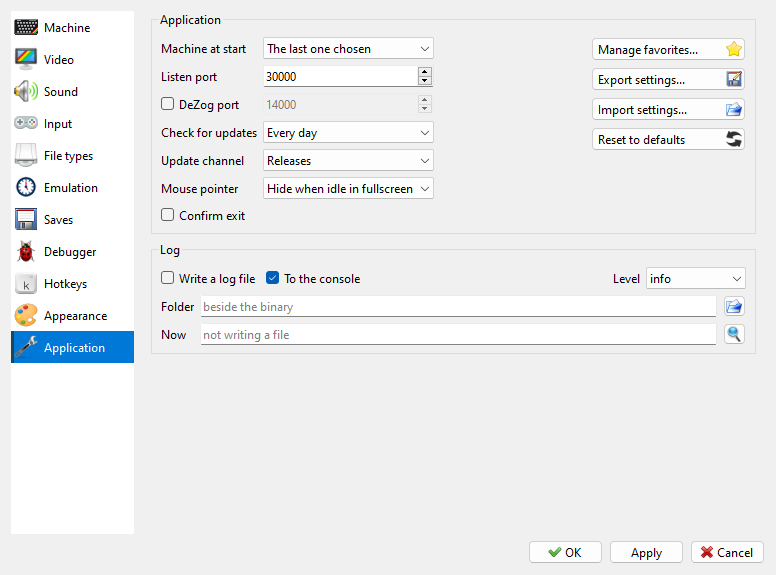
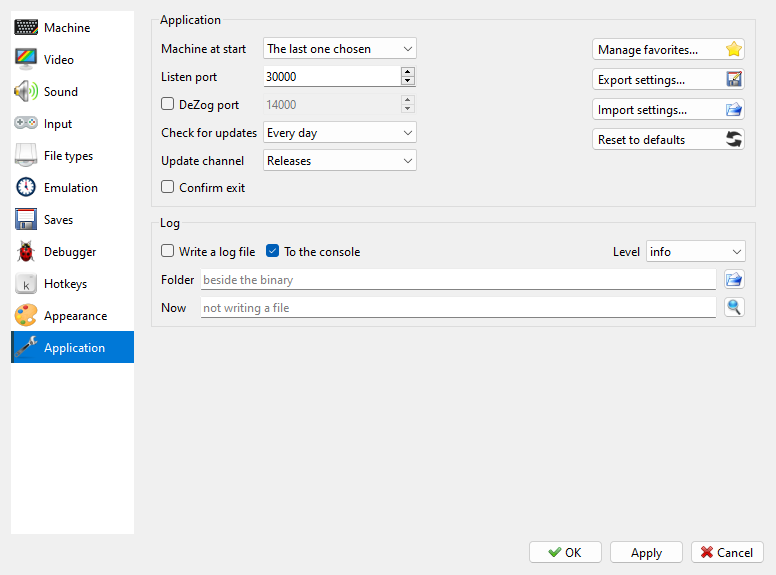
manual: Auto-Hide Pointer in View, out of the Application page and its picture

diff --git a/docs/manual/view.md b/docs/manual/view.md
@@ -6,8 +6,8 @@
 How big the picture is, how much border it shows, and how it is drawn: the colors, a
 shader, anti-flicker. The quick switches are in the **View** menu; all the settings are on
 the **Video** page of **Options** (see [Video page](options-video.md)). The menu also keeps
-the window over the others, and shows and hides the menu bar, the toolbar, the status bar,
-the virtual keyboard and the input overlay.
+the window over the others, hides a still pointer, and shows and hides the menu bar, the
+toolbar, the status bar, the virtual keyboard and the input overlay.
 
 ## Size
 
@@ -135,6 +135,15 @@ fullscreen next time.
 when another program is in use. The program's own windows - the **Debugger**, the **Tape
 Player**, **Options**, a message - still open over it. It is off in fullscreen and comes
 back when the window does. The switch is remembered.
+
+## Auto-Hide Pointer
+
+```{index} Auto-Hide Pointer, pointer; hiding, mouse; pointer
+```
+
+**View > Auto-Hide Pointer** hides the mouse pointer once it stays still over the picture
+for 2 seconds, in a window and in fullscreen. A move brings it back; over the bars, a menu
+or a dialog it stays. It is on by default, and the switch is remembered.
 
 ## Shaders
 

diff --git a/docs/manual/options-application.md b/docs/manual/options-application.md
@@ -1,6 +1,6 @@
 # Application page
 
-```{index} Application page, Listen port, DeZog port, Check for updates, Update channel, Mouse pointer, pointer; hiding, mouse; pointer, Confirm exit, Export settings, Import settings, Reset to defaults, log, log file
+```{index} Application page, Listen port, DeZog port, Check for updates, Update channel, Confirm exit, Export settings, Import settings, Reset to defaults, log, log file
 ```
 
 ![The Application page](images/options-application.png)
@@ -11,10 +11,6 @@
   port. Only programs on this computer can connect.
 - **Check for updates**, **Update channel** - how often to look for a newer version, and
   whether development builds count; see [Updates](getting-started.md#updates).
-- **Mouse pointer** - whether the pointer hides itself after it stays still over the
-  picture for 2 seconds: **Always shown**, **Hide when idle in fullscreen** (the default)
-  or **Hide when idle**, in a window too. A move brings it back; over the bars, a menu or
-  a dialog it stays.
 - **Confirm exit** - ask before closing. **Pause when inactive** is on the
   [Emulation page](options-emulation.md) now.
 - {icon}`star` **Manage favorites...** - see [Favorites menu](favorites.md).

diff --git a/docs/manual/main-window.md b/docs/manual/main-window.md
@@ -79,9 +79,8 @@ status bar hidden, tick **FPS** in the **Indicators** group on the **Appearance*
 - A click with the middle button grabs the mouse for a program that uses one; another
   click lets the mouse go.
 - Alt with the mouse wheel changes the volume.
-- In fullscreen the pointer hides itself after 2 seconds still over the picture, and a
-  move brings it back. **Mouse pointer** on the [Application page](options-application.md)
-  of **Options** sets when.
+- The pointer hides itself after 2 seconds still over the picture, and a move brings it
+  back; [View > Auto-Hide Pointer](view.md#auto-hide-pointer) turns that off.
 
 ## Fullscreen
 
